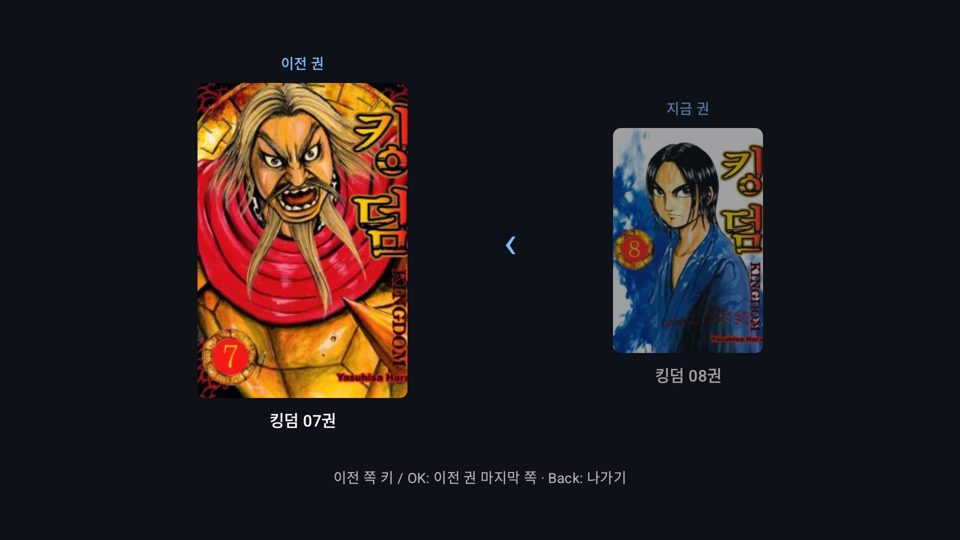
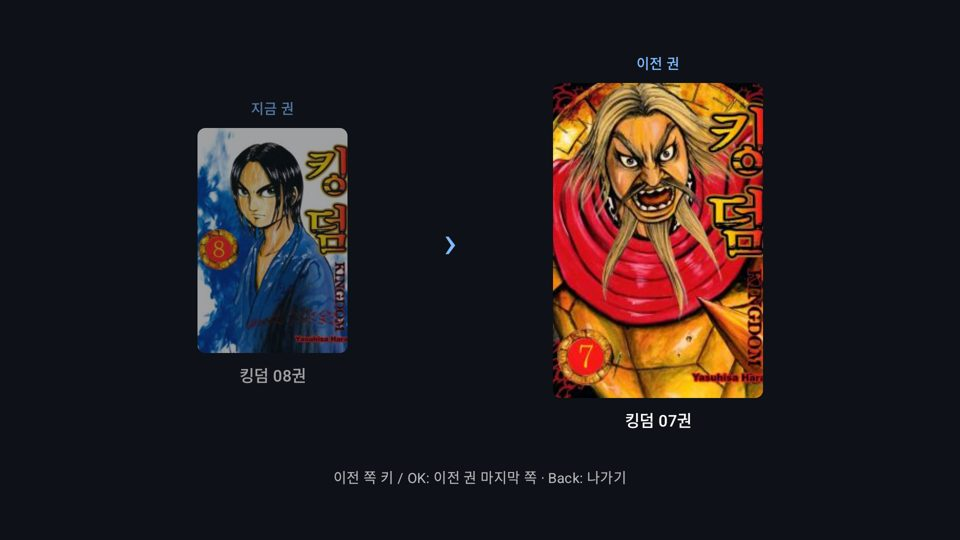
fix(reader): 책 첫 화면 순서 — 왼쪽 지금 권 › 오른쪽 이전 권 (책 끝 화면과 같은 모양), 0.2.3 / b5

Changed region(s): [[0.1875, 0.0889, 0.4375, 0.8], [0.5625, 0.0889, 0.8125, 0.7407], [0.6562, 0.7704, 0.7188, 0.8]]

diff --git a/feature/reader/src/main/java/com/komgatv/feature/reader/EndPageView.kt b/feature/reader/src/main/java/com/komgatv/feature/reader/EndPageView.kt
@@ -74,7 +74,7 @@ internal fun EndPageView(endPage: ReaderUiState.EndPage, modifier: Modifier = Mo
 }
 
 /**
- * 책 첫 화면 — 책 끝 화면의 거울. 이전 권과 지금 권을 나란히 보이고,
+ * 책 첫 화면 — 책 끝 화면과 같은 모양으로 지금 권 › 이전 권을 나란히 보이고,
  * 뒤로(이전 쪽 키·OK) 한 번 더 누르면 이전 권 마지막 쪽으로 이어진다.
  */
 @Composable
@@ -85,6 +85,15 @@ internal fun StartPageView(startPage: ReaderUiState.StartPage, modifier: Modifie
                 horizontalArrangement = Arrangement.spacedBy(56.dp),
                 verticalAlignment = Alignment.CenterVertically,
             ) {
+                // 책 끝 화면과 같은 모양: 왼쪽 지금 권 › 오른쪽 갈 곳(이전 권)
+                BookSlot(
+                    label = stringResource(R.string.start_page_current),
+                    title = startPage.currentTitle,
+                    thumbnail = startPage.currentThumbnail,
+                    coverWidth = 150.dp,
+                    dimmed = true,
+                )
+                Text(text = "›", style = MaterialTheme.typography.displayMedium, color = Color(0xFF80B9FF))
                 when {
                     !startPage.previousResolved -> NextMessage(stringResource(R.string.start_page_finding_previous))
                     startPage.previousBook == null -> NextMessage(stringResource(R.string.start_page_first_book))
@@ -96,14 +105,6 @@ internal fun StartPageView(startPage: ReaderUiState.StartPage, modifier: Modifie
                         dimmed = false,
                     )
                 }
-                Text(text = "‹", style = MaterialTheme.typography.displayMedium, color = Color(0xFF80B9FF))
-                BookSlot(
-                    label = stringResource(R.string.start_page_current),
-                    title = startPage.currentTitle,
-                    thumbnail = startPage.currentThumbnail,
-                    coverWidth = 150.dp,
-                    dimmed = true,
-                )
             }
             Spacer(Modifier.height(36.dp))
             Text(

diff --git a/docs/reports/prev-book.md b/docs/reports/prev-book.md
@@ -5,7 +5,7 @@
 
 ## 이전 권 (다음 권의 거울)
 - `BookRepository.getPreviousBook` — Komga 이전 권(`/books/{id}/previous`), 첫 권이면 null.
-- 페이지 넘김: 첫 펼침에서 뒤로 → **책 첫 화면**(이전 권 표지·제목 ‹ 지금 권). 한 번 더(이전 쪽 키·OK) → 이전 권 **마지막 쪽**. 앞으로 → 1쪽. 첫 권이면 "이 시리즈의 첫 권입니다".
+- 페이지 넘김: 첫 펼침에서 뒤로 → **책 첫 화면**(지금 권 › 이전 권 표지·제목, 책 끝 화면과 같은 모양 — 사용자 요청으로 순서 바꿈). 한 번 더(이전 쪽 키·OK) → 이전 권 **마지막 쪽**. 앞으로 → 1쪽. 첫 권이면 "이 시리즈의 첫 권입니다".
 - 세로 스크롤: 1쪽 위에 같은 책 첫 카드. 맨 위에서 위·이전 → 이전 권 끝. 처음 열 때는 카드 아래 첫 타일에서 시작.
 - 처음 근처(앞쪽 펼침 3개 이하)에서 열거나 오면 이전 권을 미리 찾고 마지막 두 쪽을 미리 받는다 — 8권을 열자마자 7권으로 바로 간다.
 - 넘어가기 직전 지금 책 진행을 저장. 이전 권은 끝에서 열기만 하고 진행은 건드리지 않는다(쪽을 넘겨야 저장).
